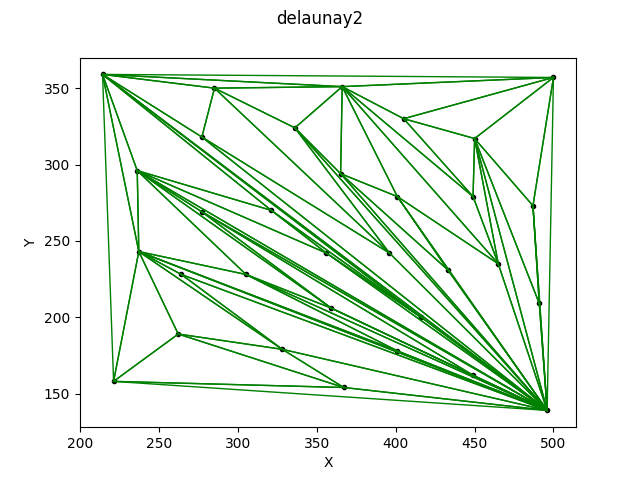
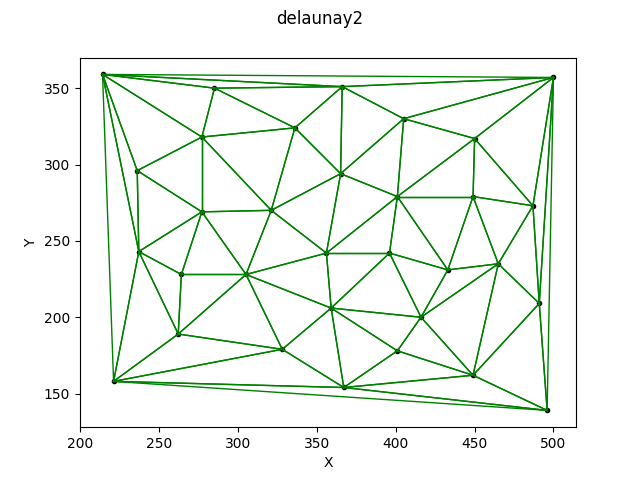
- Delaunay working

diff --git a/delaunay_flip_triangulation.py b/delaunay_flip_triangulation.py
@@ -42,15 +42,6 @@ def convex_angle(point_1, point_2, point_3):
               (point_2[1] - point_1[1]) * (point_3[0] - point_1[0]))
     return crossp > 0
 
-def calculate_angle(a, b, c):
-    ba = a - b
-    bc = c - b
-
-    cosine_angle = np.dot(ba, bc) / (np.linalg.norm(ba) * np.linalg.norm(bc))
-    angle = np.arccos(cosine_angle)
-
-    return np.degrees(angle)
-
 def flip(triangle_1, triangle_2):
     vertex_list = [triangle_1[0], triangle_1[1], triangle_1[2], triangle_2[0], triangle_2[1], triangle_2[2]]
     repeated_vertexes = list(set([x for x in vertex_list if vertex_list.count(x) > 1]))
@@ -71,24 +62,6 @@ def flip(triangle_1, triangle_2):
     new_triangle_2.sort()
 
     return new_triangle_1, new_triangle_2
-
-def convex_polygon(triangle_1, triangle_2, points):
-    vertex_to_verify = []
-    triangles = [triangle_1, triangle_2]
-    for triangle in triangles:
-        for i in range(3):
-            vertex_to_verify.append(triangle[i])
-
-    vertex_to_verify = list(set(vertex_to_verify))
-    vertex_to_verify.sort()
-
-    is_convex_polygon = True
-    for i in range(len(vertex_to_verify)):
-        if not convex_angle(points[vertex_to_verify[i - 2]], points[vertex_to_verify[i - 1]], points[vertex_to_verify[i]]):
-            is_convex_polygon = False
-            break
-
-    return is_convex_polygon
 
 def create_data_structure(triangulation_indexes):
     data_structure = []
@@ -162,32 +135,7 @@ def update_data_structure(new_triangle_1, new_triangle_2, index_1, index_2, tria
 
     return triangulation
 
-def get_angle_polygon(triangle_1, triangle_2, points):
-    triangles = [triangle_1, triangle_2]
-    angle_list = []
-
-    for triangle in triangles:
-        for i in range(len(triangle)):
-            angle = calculate_angle(points[triangle[i]], points[triangle[(i + 1) % 3]], points[triangle[(i + 2) % 3]])
-            angle_list.append(angle)
-
-    angle_list.sort()
-
-    return angle_list
-
-def fatter_triangulation(angles_before_flip, angles_after_flip):
-    fatter = False
-
-    for k in range(len(angles_before_flip)):
-        if angles_after_flip[k] > angles_before_flip[k]:
-            fatter = True
-            break
-        elif angles_after_flip[k] < angles_before_flip[k]:
-            break
-
-    return fatter
-
-def make_flip(triangle_1, triangle_2, points):
+def can_make_flip(triangle_1, triangle_2, points):
     a = points[triangle_1[0]]
     b = points[triangle_1[1]]
     c = points[triangle_1[2]]
@@ -202,51 +150,44 @@ def make_flip(triangle_1, triangle_2, points):
         if not in_triangle_1:
             d = points[element_triangle_2]
 
-    first_column = np.array([a[0] - d[0], b[0] - d[0], c[0] - d[0]])
-    second_column = np.array([a[1] - d[1], b[1] - d[1], c[1] - d[1]])
-    third_column = np.array([np.square(a[0] - d[0]) + np.square(a[1] - d[1]), np.square(b[0] - d[0]) + np.square(b[1] - d[1]), np.square(c[0] - d[0]) + np.square(c[1] - d[1])])
+    delta_first_column = [1, 1, 1, 1]
+    delta_second_column = [a[0], b[0], c[0], d[0]]
+    delta_third_column = [a[1], b[1], c[1], d[1]]
+    delta_forth_column = np.array([np.square(a[0]) + np.square(a[1]), np.square(b[0]) + np.square(b[1]), np.square(c[0]) + np.square(c[1]), np.square(d[0]) + np.square(d[1])])
 
-    matrix = np.matrix([first_column, second_column, third_column])
+    matrix_delta = np.matrix([delta_first_column, delta_second_column, delta_third_column, delta_forth_column])
+    determinant_delta = np.linalg.det(matrix_delta.T)
 
-    determinant = np.linalg.det(matrix.T)
+    gama_first_column = [1, 1, 1]
+    gama_second_column = [a[0], b[0], c[0]]
+    gama_third_column = [a[1], b[1], c[1]]
+    
+    matrix_gama = np.matrix([gama_first_column, gama_second_column, gama_third_column])
+    determinant_gama = np.linalg.det(matrix_gama.T)
 
-    return determinant > 0
+    return determinant_gama * determinant_delta < 0
 
 def delaunay_triangulation(data_triangulation, points):
     triangulation = deepcopy(data_triangulation)
-
     end_triangulation = False
 
     while not end_triangulation:
         end_triangulation = True
-        print("While Triangulation")
 
         for i, triangle in enumerate(triangulation):
             for j in range(3, 6):
-                # if triangle[j] is not None and triangle[j] > i:
                 if triangle[j] is not None:
                     triangle_1 = [triangle[0], triangle[1], triangle[2]]
                     triangle_2 = [triangulation[triangle[j]][0], triangulation[triangle[j]][1], triangulation[triangle[j]][2]]
-                    if convex_polygon(triangle_1, triangle_2, points):
-                        # print("Convex Angle")
-                        # angles_before_flip = get_angle_polygon(triangle_1, triangle_2, points)
-                        # new_triangle_1, new_triangle_2 = flip(triangle_1, triangle_2)
-                        # angles_after_flip = get_angle_polygon(new_triangle_1, new_triangle_2, points)
 
-                        # if fatter_triangulation(angles_before_flip, angles_after_flip):
-                        #     print("Fatter Triangulation")
-                        #     end_triangulation = False
-                        #     triangulation = update_data_structure(new_triangle_1, new_triangle_2, i, triangle[j], triangulation)
-
-                        if make_flip(triangle_1, triangle_2, points):
-                            print("Make Flip")
-                            new_triangle_1, new_triangle_2 = flip(triangle_1, triangle_2)
-                            end_triangulation = False
-                            triangulation = update_data_structure(new_triangle_1, new_triangle_2, i, triangle[j], triangulation)
+                    if can_make_flip(triangle_1, triangle_2, points):
+                        new_triangle_1, new_triangle_2 = flip(triangle_1, triangle_2)
+                        end_triangulation = False
+                        triangulation = update_data_structure(new_triangle_1, new_triangle_2, i, triangle[j], triangulation)
 
     return triangulation
 
-def graham_scan(points, original_indexes):
+def graham_scan_modified(points, original_indexes):
     hull = [original_indexes[0], original_indexes[1]]
     triangulation = []
 
@@ -254,14 +195,12 @@ def graham_scan(points, original_indexes):
         if convex_angle(points[hull[-2]], points[hull[-1]], points[original_indexes[i]]):
             hull.append(original_indexes[i])
             
-            # Verify if point that Grahan Scan started is alredy part of triangle
             indexes_to_consider = [hull[-2], hull[-1], original_indexes[i]]
             if hull[0] in indexes_to_consider:
                 triangulation.append(indexes_to_consider)
             else:
                 triangulation.append([hull[-2], hull[-1], hull[0]])
         else:
-            # Add triangle with start point of Grahan
             triangulation.append([hull[-1], original_indexes[i], hull[0]])
 
             while len(hull) > 1 and not convex_angle(points[hull[-2]], points[hull[-1]], points[original_indexes[i]]):
@@ -270,9 +209,9 @@ def graham_scan(points, original_indexes):
 
             hull.append(original_indexes[i])
 
-    return hull, triangulation
+    return triangulation
 
-def triangulation(points):
+def initial_triangulation(points):
     original_indexes = np.arange(len(points))
 
     # Get the index with small y. If there is a tie returns the index of the smallest y value with largest x value
@@ -286,17 +225,17 @@ def triangulation(points):
     original_indexes = original_indexes[index_to_sort_points]
 
     # Call function Graham Scan to find the convex hull
-    convex_hull_indexes, triangulation_indexes = graham_scan(points, original_indexes)
+    triangulation_indexes = graham_scan_modified(points, original_indexes)
 
-    return convex_hull_indexes, triangulation_indexes
+    return triangulation_indexes
 
-def print_solution(file_name, convex_hull_indexes):       
+def print_solution(file_name, final_triangulation):       
     with open(file_name, mode='w+') as fp:
-        for index in convex_hull_indexes:
-            print(str(index), file=fp)
+        for triangle in final_triangulation:
+            print(str(triangle[0]) + "   " + str(triangle[1]) + "   " + str(triangle[2]), file=fp)
         fp.close()
 
-def draw_polygon(points, convex_hull_indexes, datasetname, triangulation_indexes):
+def draw_polygon(points, datasetname, triangulation_indexes):
     rows_to_delete = [5, 4, 3]
     for row in triangulation_indexes:
         for index_to_delete in rows_to_delete:
@@ -306,9 +245,6 @@ def draw_polygon(points, convex_hull_indexes, datasetname, triangulation_indexes
     y_polygon = points[:,1]
 
     plt.scatter(x_polygon, y_polygon, color="black", marker='.')
-
-    # for i in range (len(x_polygon)):
-    #     plt.text(points[i, 0], points[i, 1], str(i))
 
     combination_points = [[0,1], [0,2], [1,2]]
 
@@ -326,29 +262,26 @@ def draw_polygon(points, convex_hull_indexes, datasetname, triangulation_indexes
     plt.close()
 
 def run():
-    # datasets = ["dataset/nuvem1.txt", "dataset/nuvem2.txt", "dataset/nuvem3.txt"]
-    datasets = ["dataset/nuvem1.txt"]
-
+    datasets = ["dataset/nuvem1.txt", "dataset/nuvem2.txt"]
+    
     for dataset in datasets:
         # Dataset path
         INPUT_PATH = dataset
         # Load dataset
         points = np.loadtxt(INPUT_PATH).astype(np.float)
         # Call function to construct solution
-        convex_hull_indexes, triangulation_indexes = triangulation(points)
-
-        # Create data structures
+        triangulation_indexes = initial_triangulation(points)
+        # Create data structure
         data_triangulation = create_data_structure(triangulation_indexes)
-
+        # Make Delaunay Triangulation
         final_triangulation = delaunay_triangulation(data_triangulation, points)
-
         # Name of solution file
         output_file_name = 'delaunay{}.txt'.format(INPUT_PATH[-5])
         # Function to save solution file
-        print_solution("solution/{}".format(output_file_name), convex_hull_indexes)
+        print_solution("solution/{}".format(output_file_name), final_triangulation)
         # Dataset name
         datasetname = output_file_name.split(".")[0]
         # Draw solution
-        draw_polygon(points, convex_hull_indexes, datasetname, final_triangulation)
+        draw_polygon(points, datasetname, final_triangulation)
 
 run()
